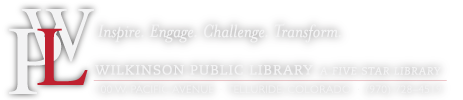
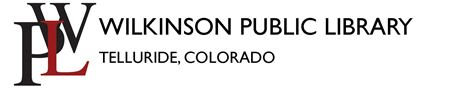
Minor changes
Update Materials Request to require a request to be selected (do not
prompt to process all)
Update Telluride interface

diff --git a/vufind/web/interface/themes/wilkinson/css/consolidated.min.css b/vufind/web/interface/themes/wilkinson/css/consolidated.min.css
@@ -633,8 +633,8 @@ a{border-bottom:0}#nav ul li li:first-child
 a{border-top:0}
 /* extra_styles.css */
 .searchHome{margin-top:0;padding:30px
-0 125px}.searchHomeForm{background-color:#404040;border-color:#242424}#searchbar{background-color:#404040;color:white}#searchbar
-a{color:white}.searchheader{padding:0}#headerwrap{background-color:#404040;padding:0;position:relative;z-index:1}#headerwrap
+0 125px}.searchHomeForm{background-color:#404040;border-color:#242424}#searchbar{background-color:white;color:black}#searchbar
+a{color:white}.searchheader{padding:0}#headerwrap{background-color:white;padding:0;position:relative;z-index:1}#headerwrap a:hover{text-decoration:underline}#headerwrap
 .row{padding:5px
 10px}.row{margin:0
 auto;overflow:hidden;width:94%}#logo{margin:0
@@ -643,11 +643,11 @@ auto}.grid_four, .grid_3, .moduletable.noresize .grid_four, .moduletable.noresiz
 ul{list-style:none outside none;margin:0}#header4 ul
 li{float:right;margin:0
 0 0 20px}#header4 ul li a, #header4 ul li
-span{color:#FFF;font-size:16px;line-height:2}#header4 ul:first-child li a, #header4 ul:first-child li
+span{font-size:16px;line-height:2}#header4 ul:first-child li a, #header4 ul:first-child li
 span{line-height:4}#header4{width:50%}body{color:#666}span.Alice{font-family:Alice;font-size:100%}h1,h2,h3,h4,h5,h6,.blockquote,.componentheading,.contentheading{font-family:sans-serif}#nav,.moduletable-superfish,.moduletable-menu,#togglemenu{font-family:sans-serif}#bottom
 blockquote{font-family:georgia;font-size:2em;font-style:italic;margin:1em
-0}#navwrap{background:none repeat scroll 0 0 #FFF;height:80px;position:relative;z-index:10;width:100%;-webkit-box-shadow:0 0 0 4px rgba(0, 0, 0, .1);-moz-box-shadow:0 0 0 4px rgba(0, 0, 0, .1);box-shadow:10 0 0 0px rgba(0, 0, 0, .1)}#navwrap
-.inner{float:left;width:100%;padding:15px
+0}#navwrap{background:none repeat scroll 0 0 #FFF;height:50px;position:relative;z-index:10;width:100%;-webkit-box-shadow:0 0 0 4px rgba(0, 0, 0, .1);-moz-box-shadow:0 0 0 4px rgba(0, 0, 0, .1);box-shadow:10 0 0 0px rgba(0, 0, 0, .1)}#navwrap
+.inner{float:left;width:100%;padding:5px
 0 0}#navwrap
 .row{overflow:visible}#navwrap
 .container{padding:0}#nav ul

diff --git a/vufind/web/services/MaterialsRequest/ajax.js b/vufind/web/services/MaterialsRequest/ajax.js
@@ -49,7 +49,7 @@ function updateMaterialsRequest(id){
 }
 
 function exportSelectedRequests(){
-	var selectedRequests = getSelectedRequests();
+	var selectedRequests = getSelectedRequests(true);
 	if (selectedRequests.length == 0){
 		return false;
 	}
@@ -63,21 +63,25 @@ function updateSelectedRequests(){
 		alert("Please select a status to update the requests to.");
 		return false;
 	}
-	var selectedRequests = getSelectedRequests();
+	var selectedRequests = getSelectedRequests(false);
 	return selectedRequests.length != 0;
 }
 
-function getSelectedRequests(){
+function getSelectedRequests(promptToSelectAll){
 	var selectedRequests = $("input.select:checked").map(function() {
 		return $(this).attr('name') + "=" + $(this).val();
 	}).get().join("&");
 	if (selectedRequests.length == 0){
-		var ret = confirm('You have not selected any requests, process all requests?');
-		if (ret == true){
-			selectedRequests = $("input.select").map(function() {
-				return $(this).attr('name') + "=on";
-			}).get().join("&");
-			$('.select').attr('checked', 'checked');
+		if (promptToSelectAll){
+			var ret = confirm('You have not selected any requests, process all requests?');
+			if (ret == true){
+				selectedRequests = $("input.select").map(function() {
+					return $(this).attr('name') + "=on";
+				}).get().join("&");
+				$('.select').attr('checked', 'checked');
+			}
+		}else{
+			alert("Please select one or more requests to update");
 		}
 	}
 	return selectedRequests;

diff --git a/vufind/web/interface/themes/wilkinson/css/extra_styles.css b/vufind/web/interface/themes/wilkinson/css/extra_styles.css
@@ -8,8 +8,8 @@
 }
 
 #searchbar {
-	background-color: #404040;
-	color: white;
+	background-color: white;
+	color: black;
 }
 #searchbar a{
 	color: white;
@@ -20,10 +20,14 @@
 }
 
 #headerwrap {
-	background-color: #404040;
+	background-color: white;
     padding: 0;
     position: relative;
     z-index: 1;
+}
+
+#headerwrap a:hover{
+	text-decoration: underline;
 }
 
 
@@ -65,7 +69,6 @@
 }
 
 #header4 ul li a, #header4 ul li span {
-    color: #FFFFFF;
     font-size: 16px;
     line-height: 2;
 }
@@ -107,7 +110,7 @@ h1, h2, h3, h4, h5, h6, .blockquote, .componentheading, .contentheading {
 #navwrap
 {
 	background: none repeat scroll 0 0 #FFFFFF;
-  height:80px;
+  height:50px;
   position:relative;
   z-index:10;
   width: 100%;
@@ -122,7 +125,7 @@ h1, h2, h3, h4, h5, h6, .blockquote, .componentheading, .contentheading {
 {
   float:left;
   width:100%;
-  padding:15px 0 0
+  padding:5px 0 0
 }
 
 #navwrap .row
